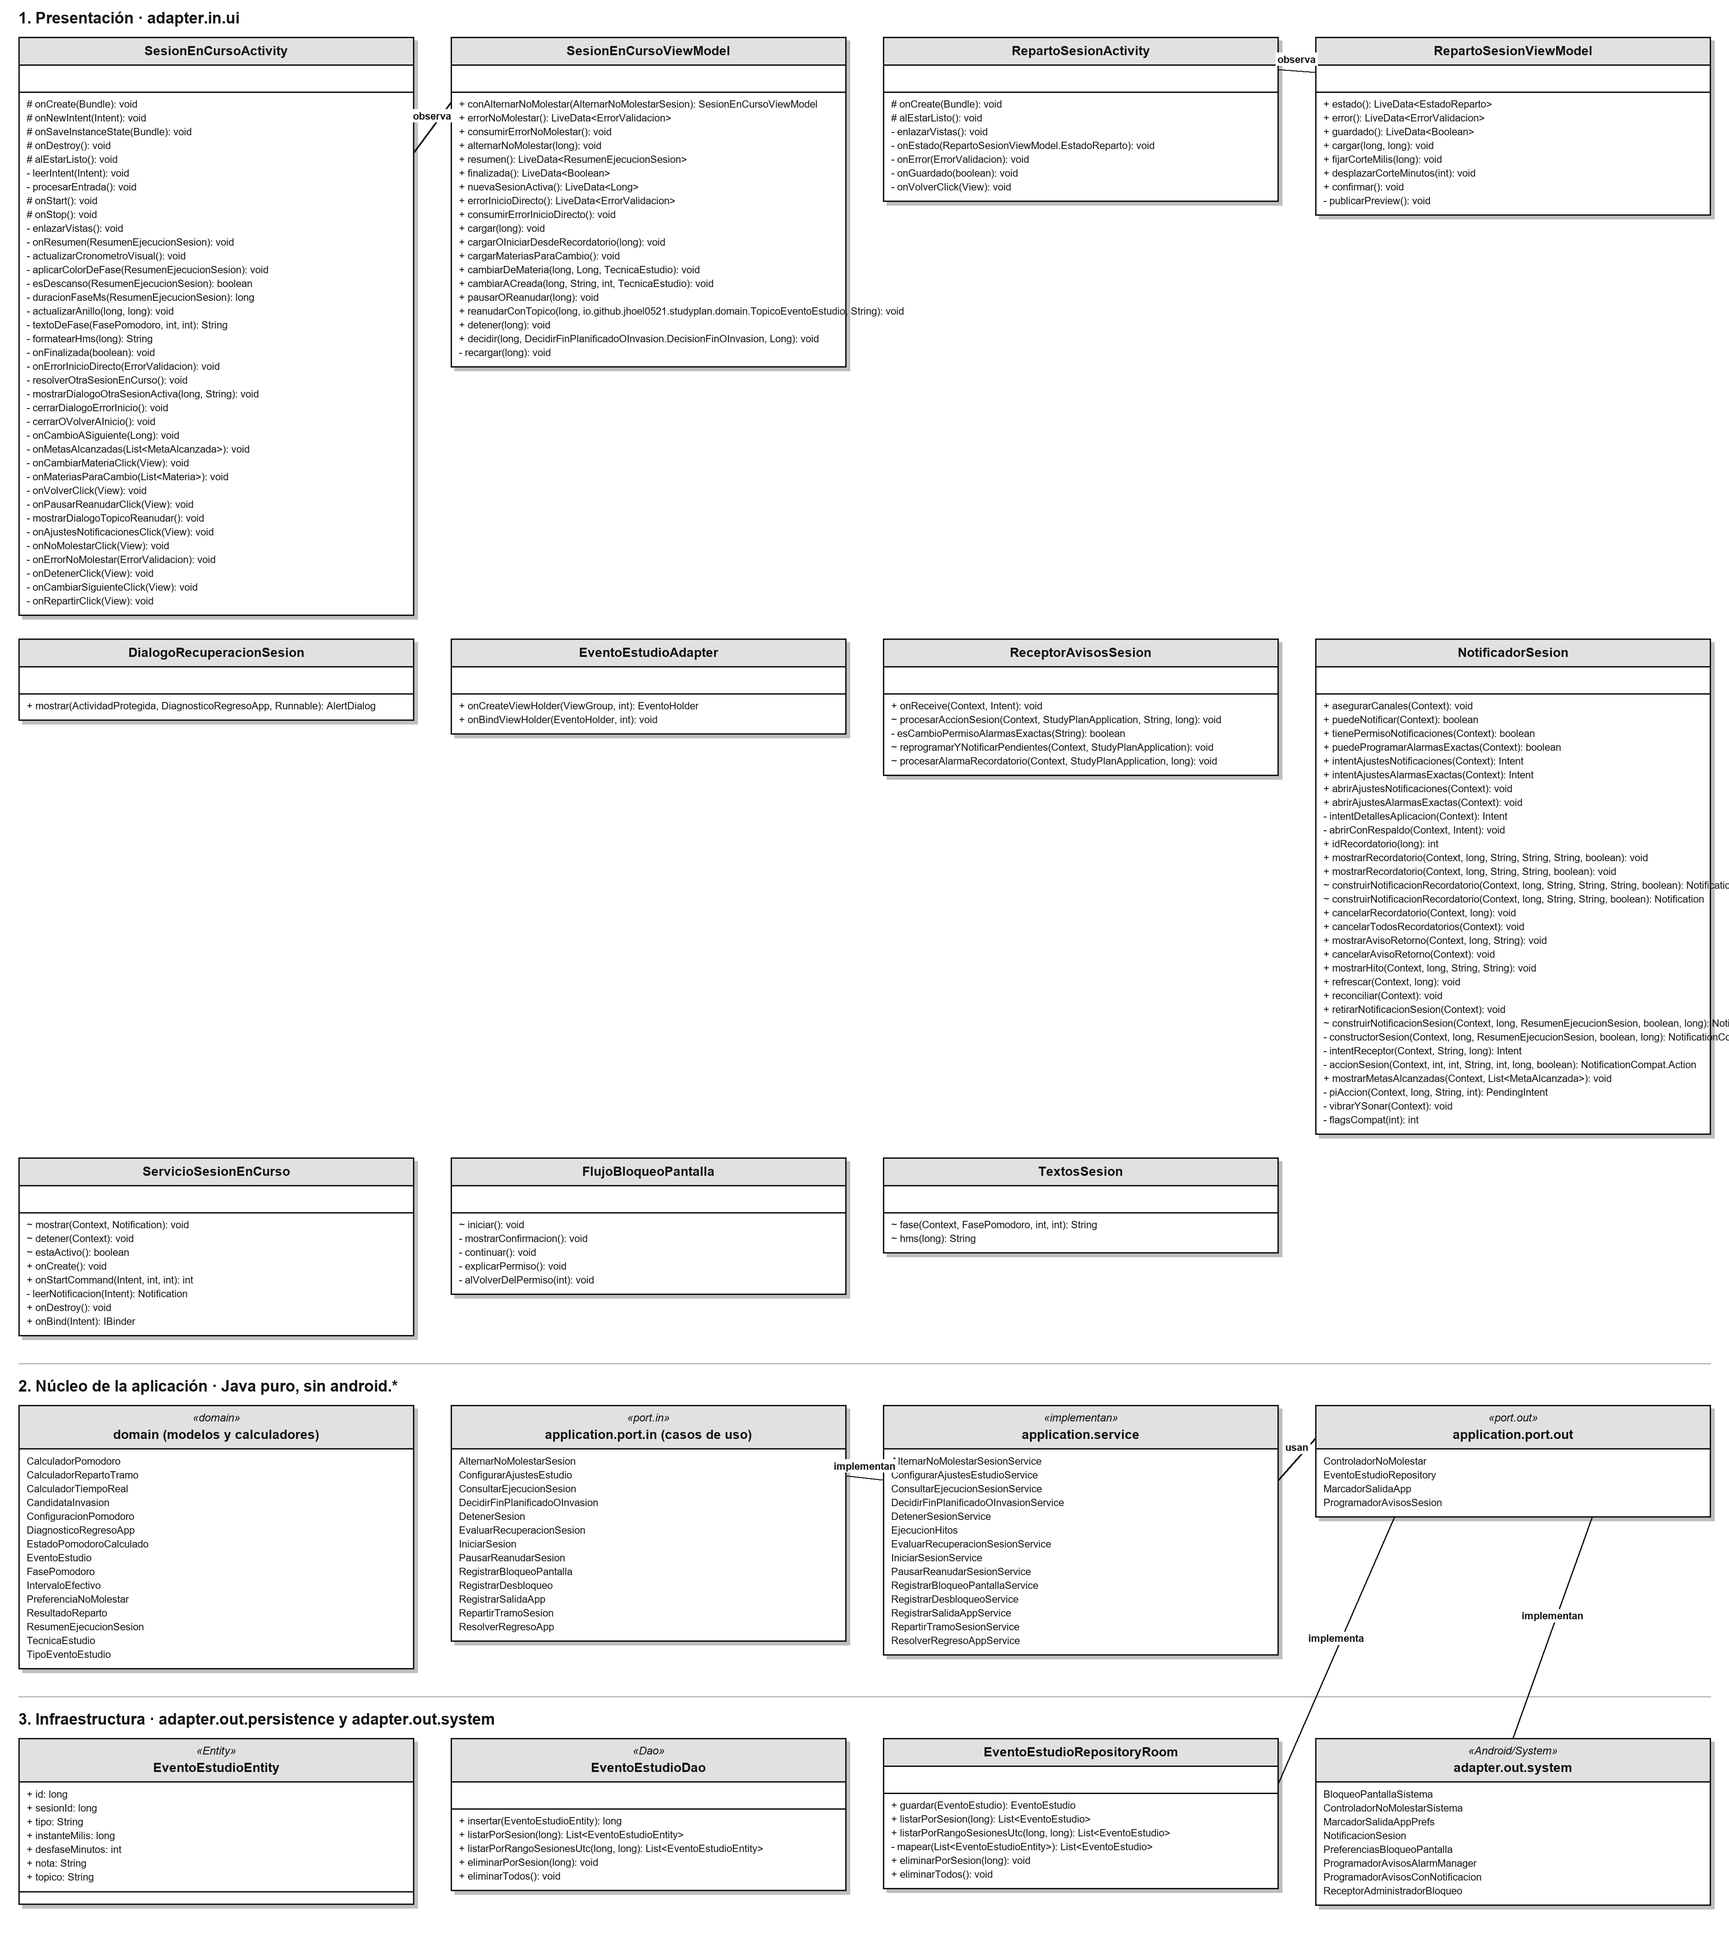
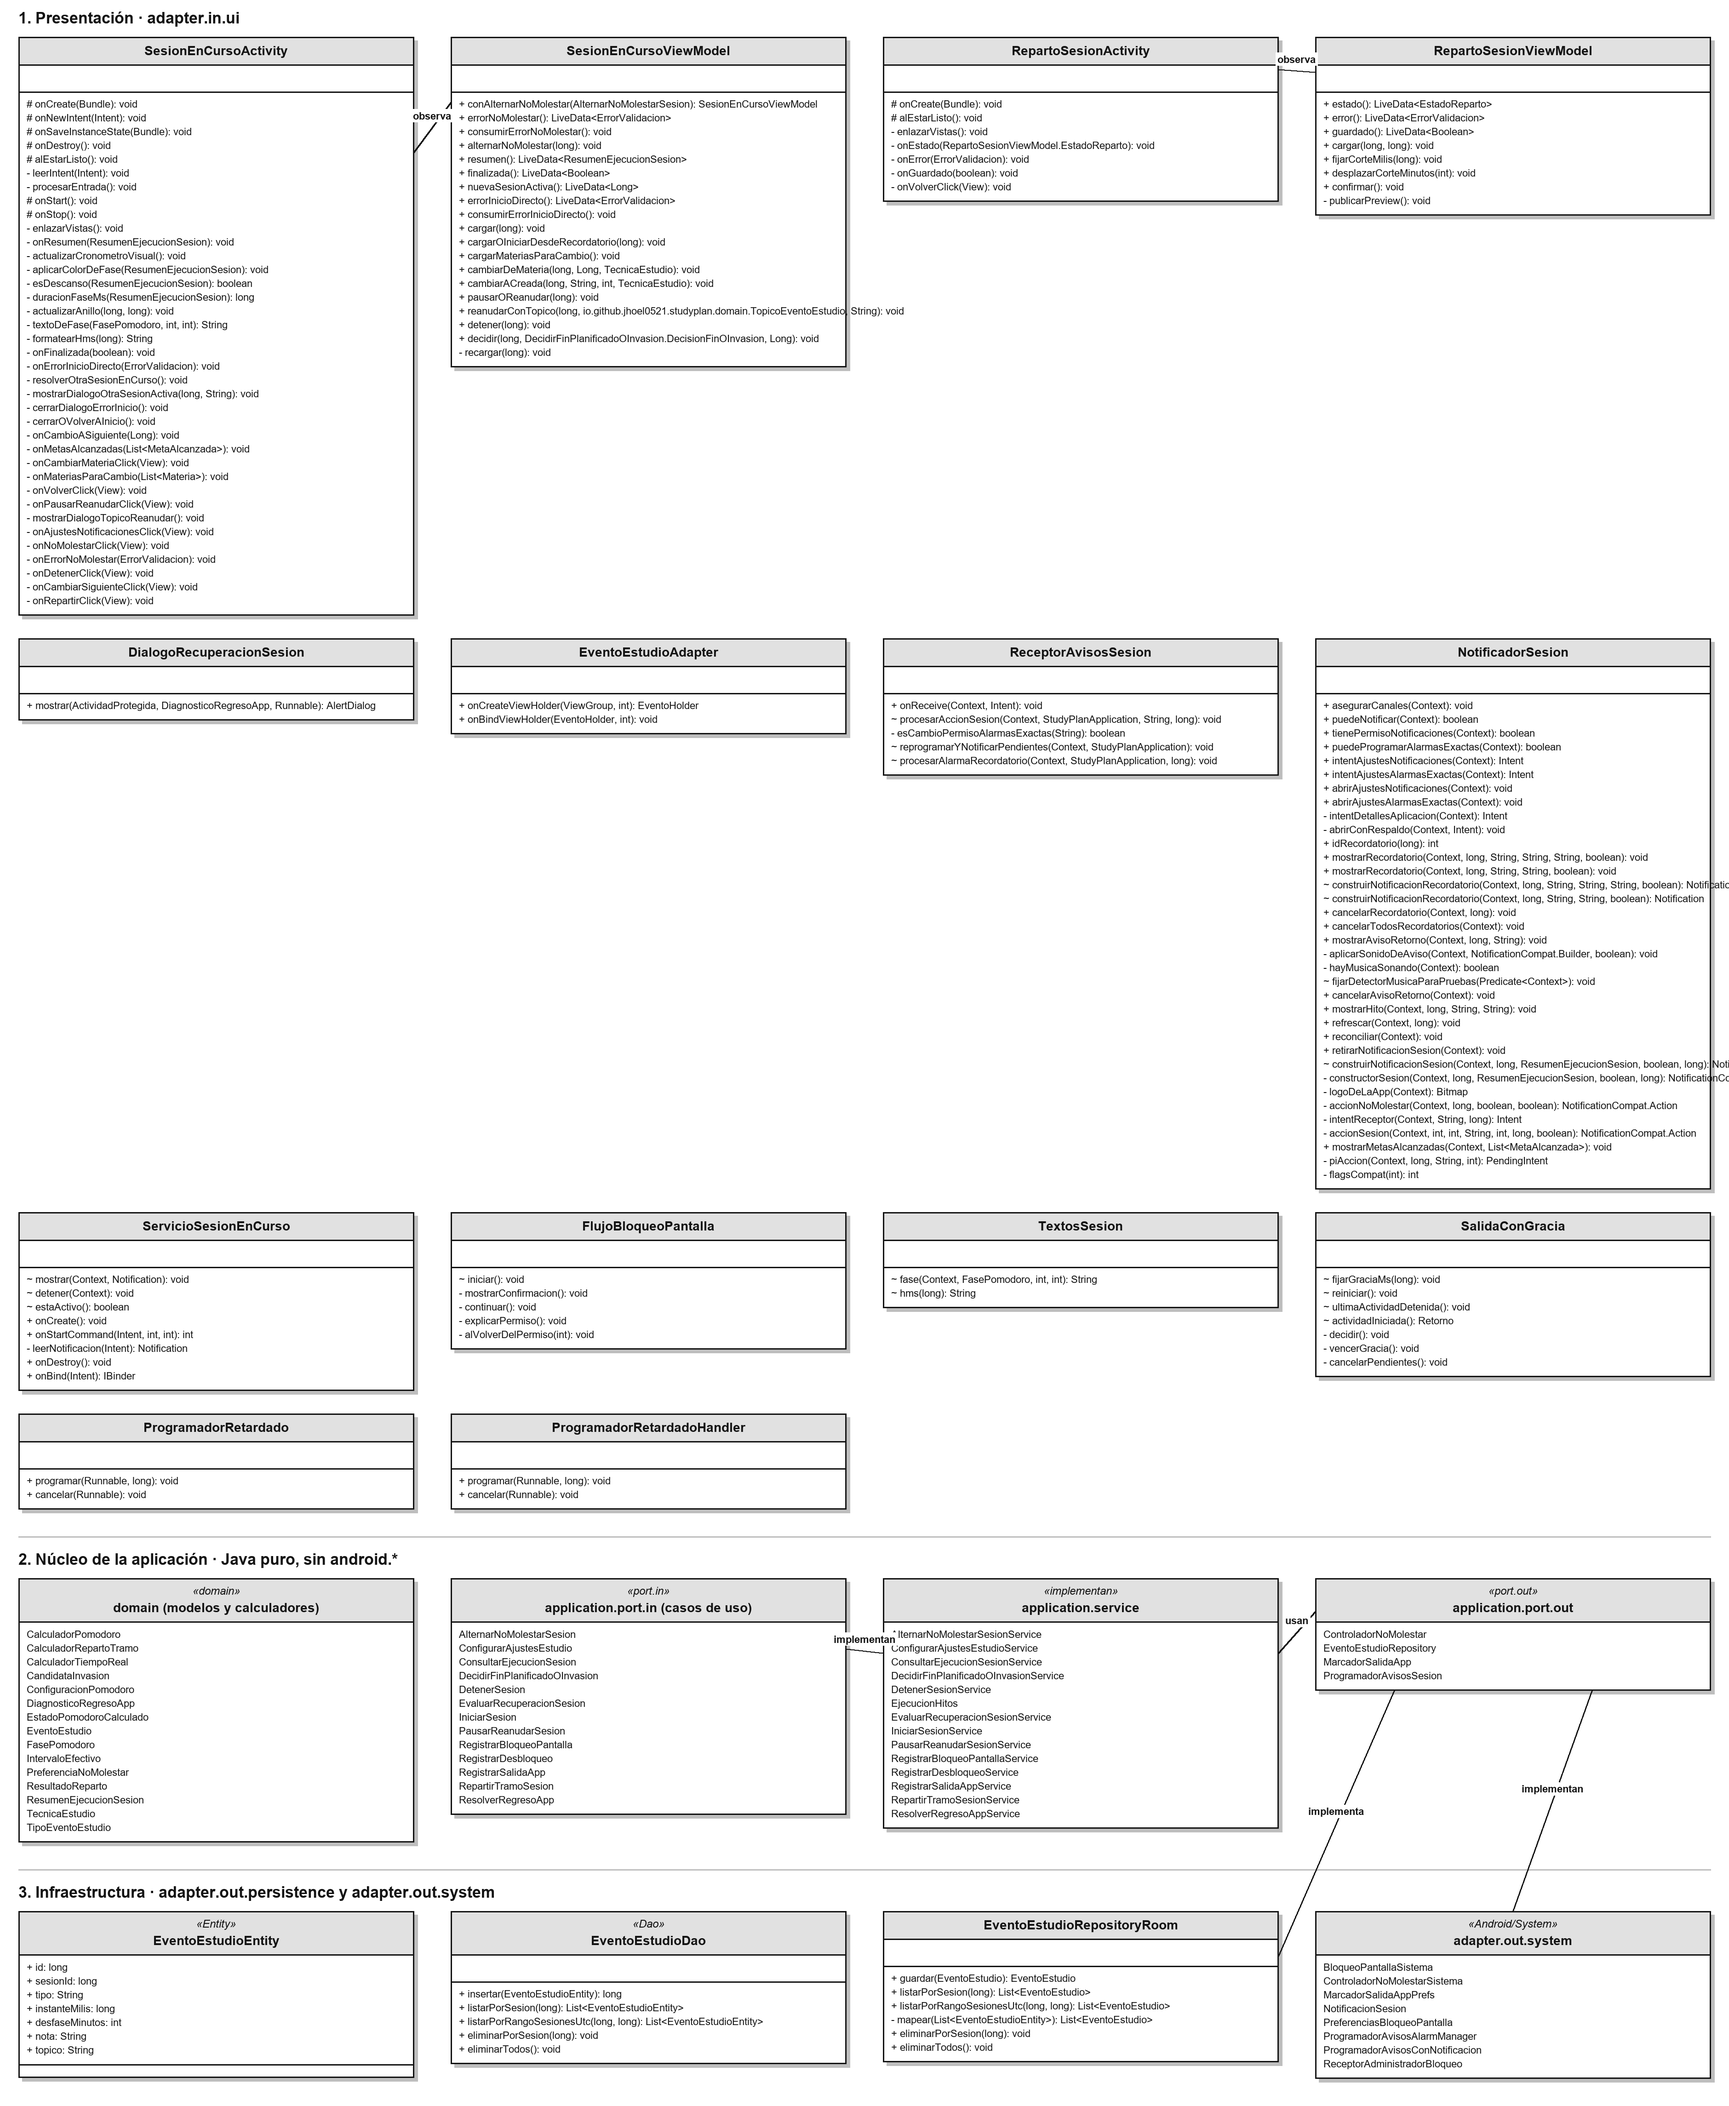
docs: diagramas de clases con la ventana de gracia y sin la sesión multimedia

Changed region(s): [[0.0, 0.0, 1.0, 0.9976]]

diff --git a/docs/build/diagramas_clases.py b/docs/build/diagramas_clases.py
@@ -87,7 +87,8 @@ DOMINIO_CALENDARIO = ["BloqueHorarioCalendario", "CalculadorRangoHorario", "Celd
 PRESENTACION_TECNICAS = ["DialogoRecuperacionSesion", "EventoEstudioAdapter", "FlujoBloqueoPantalla",
                          "NotificadorSesion", "ReceptorAvisosSesion", "RepartoSesionActivity",
                          "RepartoSesionViewModel", "ServicioSesionEnCurso", "SesionEnCursoActivity",
-                         "SesionEnCursoViewModel", "TextosSesion"]
+                         "SesionEnCursoViewModel", "TextosSesion", "SalidaConGracia", "ProgramadorRetardado",
+                         "ProgramadorRetardadoHandler"]
 ENTRADA_TECNICAS = ["AlternarNoMolestarSesion", "ConfigurarAjustesEstudio", "ConsultarEjecucionSesion",
                     "DecidirFinPlanificadoOInvasion", "DetenerSesion", "EvaluarRecuperacionSesion", "IniciarSesion",
                     "PausarReanudarSesion", "RegistrarBloqueoPantalla", "RegistrarDesbloqueo", "RegistrarSalidaApp",
@@ -447,13 +448,17 @@ def clases_tecnicas():
     y1c = y1b + alto(fila1b) + 50
     fila1c = [caja_con_metodos("ServicioSesionEnCurso", xs1[0], y1c, w1),
               caja_con_metodos("FlujoBloqueoPantalla", xs1[1], y1c, w1),
-              caja_con_metodos("TextosSesion", xs1[2], y1c, w1)]
-    for c in fila1 + fila1b + fila1c:
+              caja_con_metodos("TextosSesion", xs1[2], y1c, w1),
+              caja_con_metodos("SalidaConGracia", xs1[3], y1c, w1)]
+    y1d = y1c + alto(fila1c) + 50
+    fila1d = [caja_con_metodos("ProgramadorRetardado", xs1[0], y1d, w1),
+              caja_con_metodos("ProgramadorRetardadoHandler", xs1[1], y1d, w1)]
+    for c in fila1 + fila1b + fila1c + fila1d:
         c.draw(d)
     dg.assoc(d, fila1[0].right(0.2), fila1[1].left(0.2), "observa", None, None)
     dg.assoc(d, fila1[2].right(0.2), fila1[3].left(0.2), "observa", None, None)
 
-    y2 = y1c + alto(fila1c) + 90
+    y2 = y1d + alto(fila1d) + 90
     d.line([40, y2 - 30, W - 40, y2 - 30], fill=dg.MID, width=3)
     d.text((40, y2), "2. Núcleo de la aplicación · Java puro, sin android.*", font=dg.font(34, True), fill=dg.BLACK)
     y2 += 60

diff --git a/openspec/changes/ajustar-notificacion-sesion-sin-reproductor/tasks.md b/openspec/changes/ajustar-notificacion-sesion-sin-reproductor/tasks.md
@@ -26,7 +26,7 @@ Reglas: el estudiante pidió un `git commit` por tarea al terminarla (`feat(HU-x
 ## 5. Documentación y cierre
 
 - [x] 5.1 Actualizar `docs/documento/capitulos/03-requisitos-y-analisis-del-sistema.md` (HU-40, HU-49, RN-23 y RN-24 aprobadas en 1.1) y `docs/documento/capitulos/04-diseno-del-software.md` (notificación normal, ventana de gracia, `ProgramadorRetardado`). Verificación: `python .apa/scripts/revisar.py --doc docs/documento` sin errores nuevos.
-- [ ] 5.2 Regenerar los diagramas y cotejar las clases (`SesionMultimedia` eliminada; `ProgramadorRetardado`, `ProgramadorRetardadoHandler` y `SalidaConGracia` añadidas). Modifica: `docs/build/diagramas_clases.py`. Verificación: `python docs/build/diagramas.py` y `python docs/build/cotejo_clases.py` pasan.
+- [x] 5.2 Regenerar los diagramas y cotejar las clases (`SesionMultimedia` eliminada; `ProgramadorRetardado`, `ProgramadorRetardadoHandler` y `SalidaConGracia` añadidas). Modifica: `docs/build/diagramas_clases.py`. Verificación: `python docs/build/diagramas.py` y `python docs/build/cotejo_clases.py` pasan.
 - [ ] 5.3 Añadir filas a `docs/auditoria-ia/bitacora.md` (solicitud, resultado, decisión humana, verificación) con los errores de la IA de esta sesión, incluido el informe externo contrastado con el código. Verificación: revisión con el subagente `auditor-ia`.
 - [ ] 5.4 Verificación integral: `./gradlew assembleDebug test lint` sin errores nuevos de lint, `openspec validate ajustar-notificacion-sesion-sin-reproductor --strict`, y las clases instrumentadas del change corridas una por una en el emulador (`NotificacionSesionEspressoTest`, `AccionesNotificacionEspressoTest`, `BloqueoPantallaEspressoTest`, `ContadorActividadesInstrumentadoTest`, `CandadoEspressoTest`). Verificación: resultados anotados en la bitácora.
 - [ ] 5.5 Con permiso explícito del Product Owner, instalar el APK en su teléfono y comprobar: notificación con botones en la barra y al expandirla en el bloqueo, música sin cortarse, salir y volver en 55 s sin pregunta, salir 10 minutos con música y pantalla bloqueada y recibir la pregunta de 10 minutos. Verificación: resultado anotado en la bitácora.
